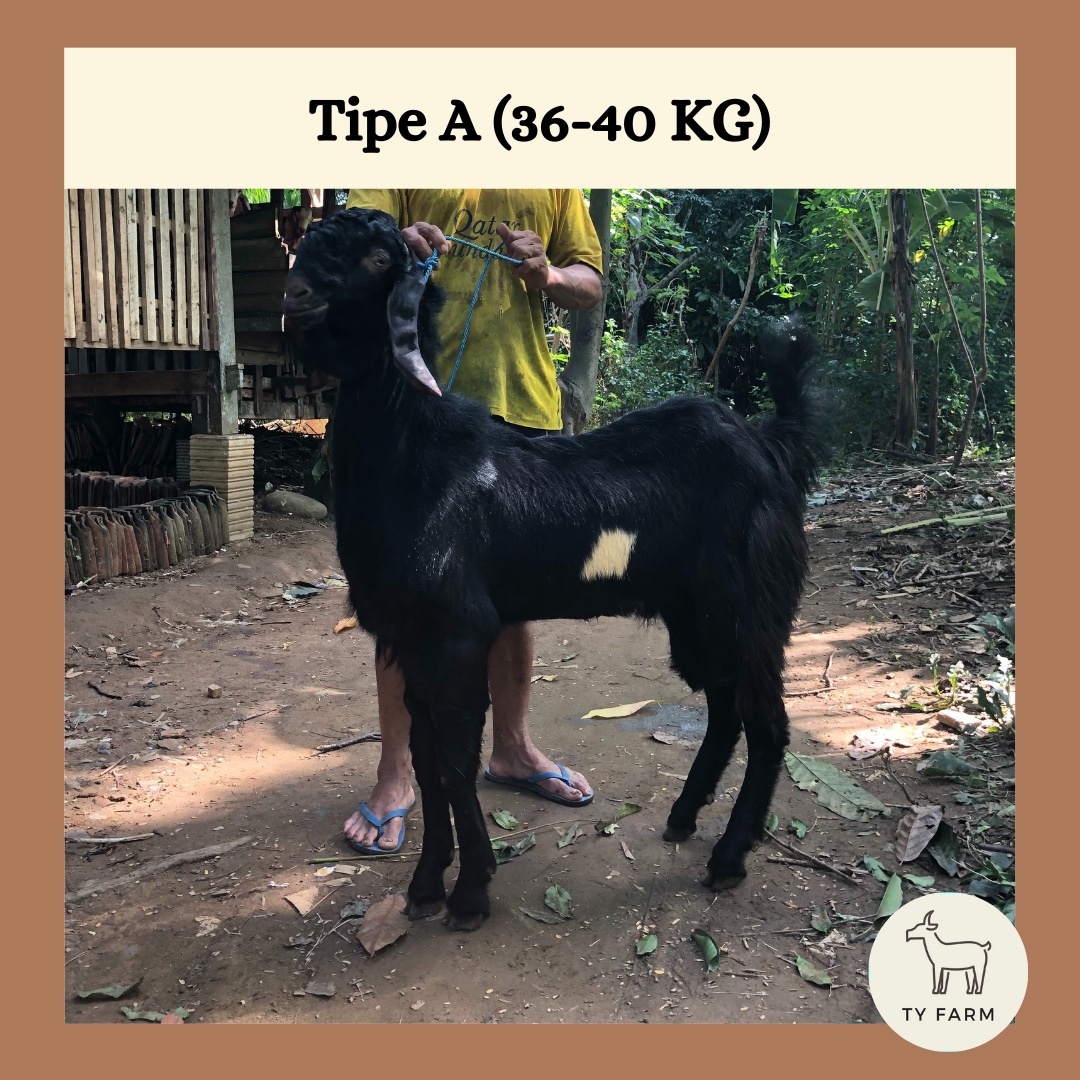
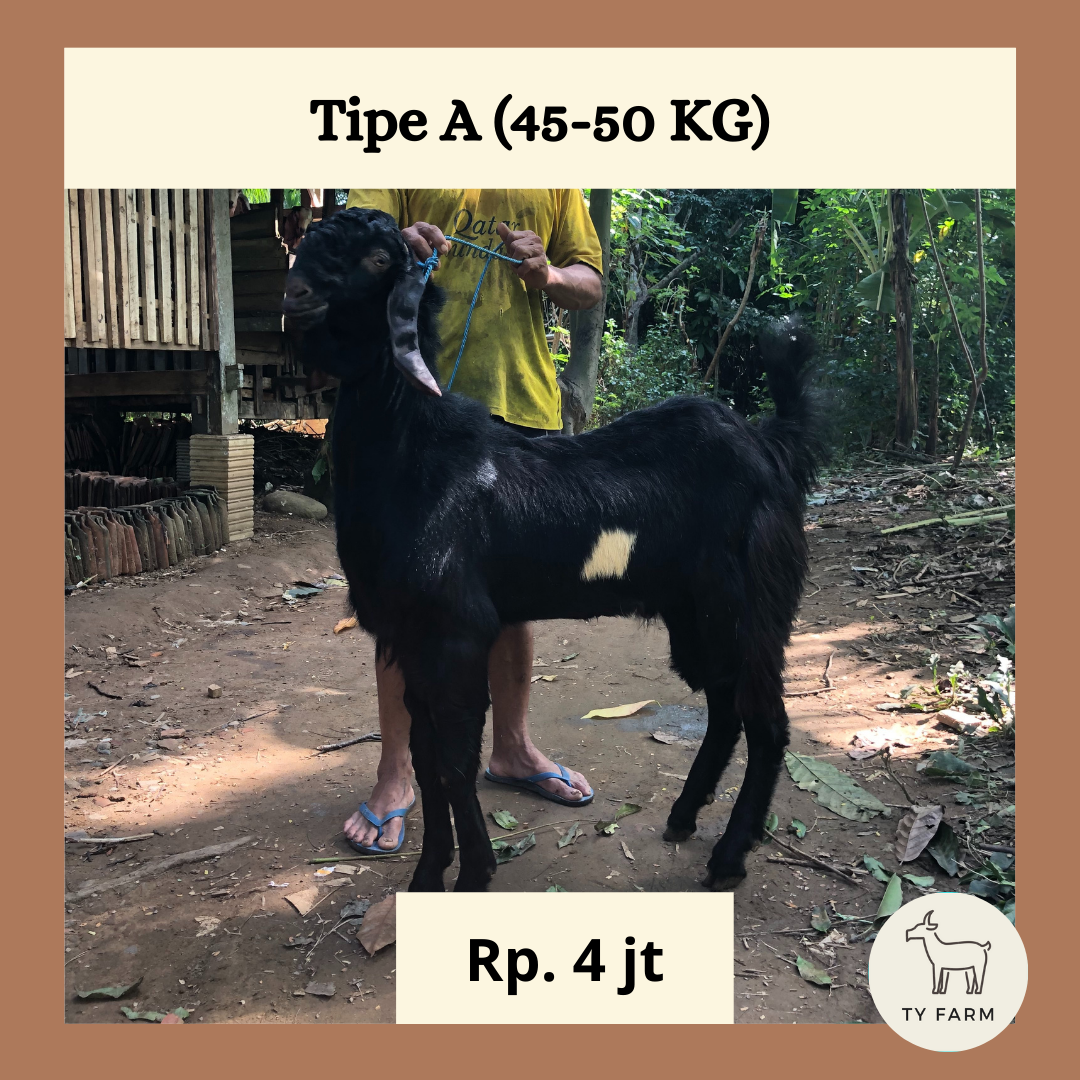
change price

diff --git a/tyfarm/index.html b/tyfarm/index.html
@@ -76,7 +76,7 @@
         </ul>
         <div class="carousel-inner">
           <div class="carousel-item active">
-            <img src="assets/img/HEWAN KURBAN 2021.jpg" alt="Los Angeles" width="1100" height="800">
+            <img src="assets/img/HEWAN KURBAN 2021.png" alt="Los Angeles" width="1100" height="800">
             <div class="container">
             </div>
           </div>
@@ -167,7 +167,7 @@
               <div class="d-block mb-4">
                 <img src="assets/img/services/home-delivery.svg" width="85px" alt="">
               </div>
-              <h4 class="h5">Hewan kurban kami antar sampai kerumah Anda</h4>
+              <h4 class="h5">Free Ongkir Pengiriman ke Tempat Anda</h4>
             </div>
 
             <div class="col-lg-3 mb-5 mb-lg-0 text-center" data-aos="fade-up" data-aos-easing="linear"
@@ -210,7 +210,7 @@
                 <img class="img-fluid img-responsive" src="assets/img/4.png" alt="">
                 <div class="overlay">
                   <p class="d-flex align-items-center justify-content-center">
-                    <strong>Tipe Super (diatas 40kg)</strong>
+                    <strong>Tipe Super (diatas 50kg)</strong>
                     <!-- <a href="portfolio.html" class="fancylight popup-btn info"
                       data-fancybox-group="light">My Profile
                       <i>view</i></a> -->
@@ -225,7 +225,7 @@
                 <img class="img-fluid img-responsive" src="assets/img/1.png" alt="">
                 <div class="overlay">
                   <p class="d-flex align-items-center justify-content-center">
-                    <strong>Tipe A (36-40 kg)</strong>
+                    <strong>Tipe A (45-50 kg)</strong>
                     <!-- <a href="portfolio.html" class="fancylight popup-btn info"
                       data-fancybox-group="light">My Profile
                       <i>view</i></a> -->
@@ -240,7 +240,7 @@
                 <img class="img-fluid img-responsive" src="assets/img/2.png" alt="">
                 <div class="overlay">
                   <p class="d-flex align-items-center justify-content-center">
-                    <strong>Tipe B (31-35 kg)</strong>
+                    <strong>Tipe B (35-44 kg)</strong>
                     <!-- <a href="portfolio.html" class="fancylight popup-btn info"
                       data-fancybox-group="light">My Profile
                       <i>view</i></a> -->
@@ -255,7 +255,7 @@
                 <img class="img-fluid img-responsive" src="assets/img/3.png" alt="">
                 <div class="overlay">
                   <p class="d-flex align-items-center justify-content-center">
-                    <strong>Tipe C (25-26 kg)</strong>
+                    <strong>Tipe C (30-34 kg)</strong>
                     <!-- <a href="portfolio.html" class="fancylight popup-btn info"
                       data-fancybox-group="light">My Profile
                       <i>view</i></a> -->
@@ -281,10 +281,10 @@
               <div class="card-body py-8">
                 <div class="pricing-header mb-8">
                   <h3 class="font-weight-normal mb-3">Tipe Super</h3>
-                  <h5>Rp.4,2 Juta</h5>
+                  <h5>Rp.4,5 Juta</h5>
                 </div>
                 <ul class="list-unstyled mt-3 price-options">
-                  <li>- Berat Kotor diatas 40 kg</li>
+                  <li>- Berat Kotor diatas 50 kg</li>
                 </ul>
                 <a class="cta" href="https://form.jotform.com/211634375560454" >Order Sekarang</a>
               </div>
@@ -295,10 +295,10 @@
               <div class="card-body py-8">
                 <div class="pricing-header mb-8">
                   <h3 class="font-weight-normal mb-3">Tipe A</h3>
-                  <h5>Rp.3,7 Juta</h5>
+                  <h5>Rp.4 Juta</h5>
                 </div>
                 <ul class="list-unstyled lh-45 mt-3 price-options">
-                  <li>- Berat Kotor 36-40 kg</li>
+                  <li>- Berat Kotor 45-50 kg</li>
                 </ul>
                 <a class="cta" href="https://form.jotform.com/211634375560454" >Order Sekarang</a>
               </div>
@@ -309,10 +309,10 @@
               <div class="card-body py-8">
                 <div class="pricing-header mb-8">
                   <h3 class="font-weight-normal mb-3">Tipe B</h3>
-                  <h5>Rp.3,5 Juta</h5>
+                  <h5>Rp.3,8 Juta</h5>
                 </div>
                 <ul class="list-unstyled lh-45 mt-3 price-options">
-                  <li>- Berat Kotor 31-35 kg</li>
+                  <li>- Berat Kotor 35-44 kg</li>
                 </ul>
                 <a class="cta" href="https://form.jotform.com/211634375560454" >Order Sekarang</a>
               </div>
@@ -323,10 +323,10 @@
               <div class="card-body py-8">
                 <div class="pricing-header mb-8">
                   <h3 class="font-weight-normal mb-3">Tipe C</h3>
-                  <h5>Rp.3 Juta</h5>
+                  <h5>Rp.3,3 Juta</h5>
                 </div>
                 <ul class="list-unstyled lh-45 mt-3 price-options">
-                  <li>- Berat Kotor 25-30 kg</li>
+                  <li>- Berat Kotor 30-34 kg</li>
                 </ul>
                 <a class="cta" href="https://form.jotform.com/211634375560454" >Order Sekarang</a>
               </div>
@@ -344,11 +344,11 @@
       <div class="row">
         <div class="col-md-6 text-center text-md-left mb-3 mb-md-0" style="color: white">
           <small>
-            Surabaya: Jln Kartomenangal II (Stand Bpk Sutoyo)
+            Surabaya: Jln Ahmad Yani No.309 (Stand Pak Toyo)
             <div>
               <a style="color: #f1ad50; font-weight: bold;" target="_blank"
-                href="https://www.google.com/maps/search/jl+kartomenangal+2+surabaya/@-7.341366,112.729614,21z">
-                lebih lanjut
+                href="https://www.google.com/maps/place/Jl.+Kertomenanggal+No.288,+Dukuh+Menanggal,+Kec.+Gayungan,+Kota+SBY,+Jawa+Timur+60234/@-7.3418806,112.7274625,17z/data=!3m1!4b1!4m5!3m4!1s0x2dd7fb4e5c7388d7:0x689e48da5528d4ee!8m2!3d-7.3418806!4d112.7296565">
+                Google Map
               </a>
             </div>
           </small>
@@ -357,7 +357,7 @@
             <div>
               <a style="color: #f1ad50; font-weight: bold;" target="_blank"
                 href="https://www.google.com/maps/place/Jl.+Mojopahit+No.539,+Mergelo,+Kranggan,+Kec.+Prajurit+Kulon,+Kota+Mojokerto,+Jawa+Timur+61361/@-7.4823567,112.4260968,17z/data=!3m1!4b1!4m5!3m4!1s0x2e78127f7040e823:0x9fbc3f982dcb24aa!8m2!3d-7.4823567!4d112.4282908">
-                lebih lanjut
+                Google Map
               </a>
             </div>
           </small>
